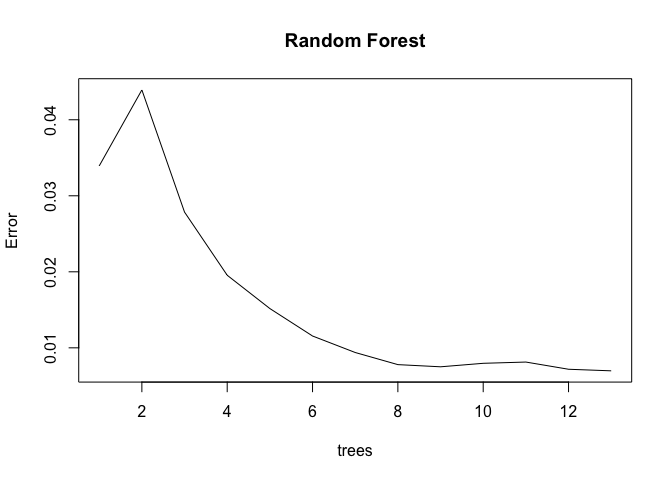
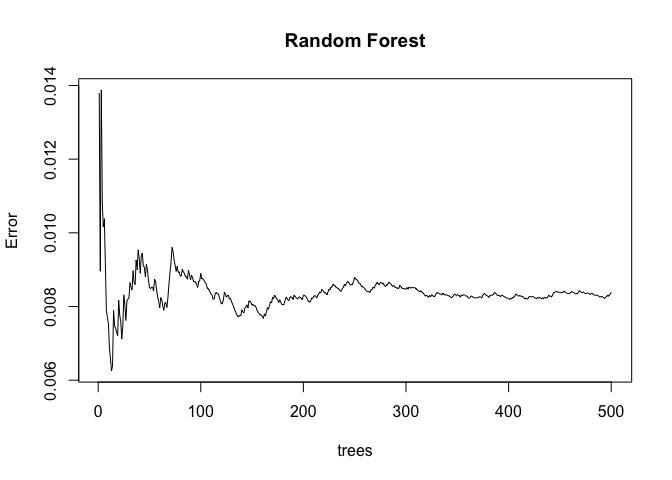
Updated markdown

diff --git a/CTR Optimisation (GSC)/CTR_optimisation.md b/CTR Optimisation (GSC)/CTR_optimisation.md
@@ -7,8 +7,8 @@ Marco Giordano
 
 This project is just an example of how it is possible to predict the CTR
 of a website by using Google Search Console data, extracted via Google
-API. The presented example can be considered as a “toy model”, in the
-sense that it is just a demonstration to show the method on a relatively
+API. What we present can be considered as a “toy example”, in the sense
+that it is just a demonstration to show two methods on a relatively
 small dataset. The main reason to predict CTR via Machine Learning
 techniques is because SEO Specialists usually decide what to optimize by
 looking at pages with high Impressions and low CTR. However, this method
@@ -17,6 +17,9 @@ is obviously biased, since CTR varies with position\!
 I try to test some popular methods to predict the CTR, given a small
 sample of 25K rows from 3 months from Google Search Console, in order to
 create a better way to make decisions on what could be optimized.
+
+\[Original source\]
+(<https://understandingdata.com/ctr-optimisation-with-machine-learning/>)
 
 ## Descriptive Statistics
 
@@ -43,7 +46,7 @@ summary(gsc_queries_all[,-c(1:3)])
 # Data Cleaning
 
 Even though data extracted from GSC API are in a tidy format, there are
-some fixes to do before we start with our analysis. For instance,
+some small fixes to do before we start with our analysis. For instance,
 details about the date, the query and the page are not requested to
 predict the CTR. Hence, we remove them and create a new data set without
 them.
@@ -164,7 +167,7 @@ doesn’t imply causation, we are just talking about linear association.
 Before we start training any model, we need to create a train/test split
 to avoid overfitting. We will use a 75/25 ratio, chosen arbitrarily and
 we should have enough data to train a model. To do this, we simply
-create a Uniform distribution which stores
+create a random variable to group and partition data.
 
 ``` r
 set.seed(55744747)
@@ -177,7 +180,8 @@ test_gsc <- gsc[gp >= 0.75,]
 After the train/test split, we can scale our two sets to adjust their
 scale and make algorithms life easier. We use a function from the caret
 package to process data from the training data set and then apply the
-same preprocessing to the test data set.
+same preprocessing to the test data set. Be careful, as you need to
+scale test data by what seen in train data\!
 
 ``` r
 preProcValues <- preProcess(train_gsc[-4], method = c("center", "scale"))
@@ -190,12 +194,13 @@ test_gsc[-4] <- predict(preProcValues, test_gsc[-4])
 
 We start with the most basic model to assess its accuracy. I suppose
 that this model won’t lead to good results because I suspect that the
-relationship is not linear at all\!
+relationship is not linear at all, although linear regression allows for
+interpolation. We can directly fit a model with all the covariates.
 
 ``` r
 lm_mod <- lm(ctr ~ ., data = train_gsc)
-train_gsc$pred <- predict(lm_mod, train_gsc)
-test_gsc$pred <- predict(lm_mod, test_gsc)
+train_Preds <- predict(lm_mod, train_gsc)
+Preds <- predict(lm_mod, test_gsc)
 ```
 
 ``` r
@@ -223,11 +228,15 @@ summary(lm_mod)
     ## Multiple R-squared:  0.06584,    Adjusted R-squared:  0.06569 
     ## F-statistic: 438.9 on 3 and 18680 DF,  p-value: < 2.2e-16
 
+By taking a quick look at the summary, we can clearly notice that
+converting variables to log or doing feature engineering would be a
+waste of time.
+
 We can visualize our results to assess how well the regression line fits
 the data points.
 
 ``` r
-ggplot(test_gsc, aes(pred, ctr)) +
+ggplot(test_gsc, aes(Preds, ctr)) +
   geom_point(alpha = 0.2, color = "darkgray") +
   geom_smooth(color = "darkblue") +
   geom_line(aes(ctr, ctr), color = "blue", linetype = 2) 
@@ -255,16 +264,30 @@ residuals and refers to the absolute fit of the model to the data. It
 tells us the accuracy with which our model predicts the response and it
 is very important for our goal, namely prediction.
 
-``` r
-R2_train <- 1 - (sum((train_gsc$ctr-train_gsc$pred)^2)/sum((train_gsc$ctr-mean(train_gsc$ctr))^2))
-R2_test <- 1 - (sum((test_gsc$ctr-test_gsc$pred)^2)/sum((test_gsc$ctr-mean(test_gsc$ctr))^2))
-
-RMSE_train <- sqrt(mean( (train_gsc$ctr - train_gsc$pred)^2 ))
-RMSE_test<- sqrt(mean( (test_gsc$ctr - test_gsc$pred)^2 ))
-```
-
 Both the two metrics for each of the 2 sets display totally unacceptable
 values, in line with what we saw before.
+
+``` r
+reg_rmse_train <- rmse(train_gsc$ctr, train_Preds, name = "prova")
+reg_rmse_test <- format(rmse(test_gsc$ctr, Preds), digits = 3)
+title <- "Linear Regression metrics"
+df_visual <- cbind(title, reg_rmse_test)
+```
+
+``` r
+library(pander)
+
+panderOptions("plain.ascii", TRUE)
+panderOptions("keep.trailing.zeros", TRUE)
+panderOptions("table.style", "simple")
+perf_justify <- "lrrr"
+
+perftable <- rbind(reg_rmse_train)
+perftable
+```
+
+    ##                     [,1]
+    ## reg_rmse_train 0.3166501
 
 ## Random Forest
 
@@ -275,11 +298,15 @@ repeatable by setting a seed value.
 
 ``` r
 set.seed(55744747)
-rand_gsc <- randomForest(ctr ~., data = train_gsc, importance = TRUE, ntree = 13)
+rand_gsc <- randomForest(ctr ~., data = train_gsc, importance = TRUE, ntree = 500)
 
 train_gsc$pred <- predict(rand_gsc, train_gsc)
 test_gsc$pred <- predict(rand_gsc, test_gsc)
 ```
+
+After we fit the model, it is important to create new columns for the
+predicted values in both the two sets. However, remind that we will only
+use values from the test data set later on\!
 
 ``` r
 summary(rand_gsc)
@@ -289,11 +316,11 @@ summary(rand_gsc)
     ## call                5  -none- call     
     ## type                1  -none- character
     ## predicted       18684  -none- numeric  
-    ## mse                13  -none- numeric  
-    ## rsq                13  -none- numeric  
+    ## mse               500  -none- numeric  
+    ## rsq               500  -none- numeric  
     ## oob.times       18684  -none- numeric  
-    ## importance          8  -none- numeric  
-    ## importanceSD        4  -none- numeric  
+    ## importance          6  -none- numeric  
+    ## importanceSD        3  -none- numeric  
     ## localImportance     0  -none- NULL     
     ## proximity           0  -none- NULL     
     ## ntree               1  -none- numeric  
@@ -310,17 +337,12 @@ plot(rand_gsc, main = "Random Forest")
 ```
 
 ![](CTR_optimisation_files/figure-gfm/Error%20vs%20Number%20of%20Trees%20-%20RF-1.png)<!-- -->
-
-After we fit the model, it is important to create new columns for the
-predicted values in both the two sets. However, remind that we will only
-use values from the test data set later on\!
-
-``` r
-varImp <- importance(rand_gsc)
-varImpPlot(rand_gsc, type = 1)
-```
-
-![](CTR_optimisation_files/figure-gfm/Variable%20importance%20-%20RF-1.png)<!-- -->
+As you can see above, After \~10 trees, error starts to increase and
+then flatten as we move towards 500. We could also optimize the number
+of trees used by setting a lower number but the model is already fine
+this way. Please consider to test different combinations if you need to
+get better results. In our case, we could just reduce the number of
+tress to increase the speed of our algorithm.
 
 You may want to take a look at the importance of the variables according
 to Random Forest. We used the percentage of increase in MSE when a given
@@ -330,6 +352,13 @@ either didn’t show any strong correlation with CTR at the beginning of
 our analysis. In cases where you have a lot of variables, you can
 consider using this screening procedure to pick the most important
 variables and work with a smaller feature set.
+
+``` r
+varImp <- importance(rand_gsc)
+varImpPlot(rand_gsc, type = 1, main = "Variable Importance")
+```
+
+![](CTR_optimisation_files/figure-gfm/Variable%20importance%20-%20RF-1.png)<!-- -->
 
 ``` r
 R2_train <- 1 - (sum((train_gsc$ctr-train_gsc$pred)^2)/sum((train_gsc$ctr-mean(train_gsc$ctr))^2))
@@ -353,7 +382,7 @@ mtry <- tuneRF(train_gsc[, -4],train_gsc$ctr, ntreeTry=500,
                stepFactor=1.5,improve=0.05, trace=TRUE, plot=TRUE)
 ```
 
-    ## mtry = 1  OOB error = 0.001231441 
+    ## mtry = 1  OOB error = 0.001592572 
     ## Searching left ...
     ## Searching right ...
 
@@ -404,8 +433,21 @@ final_df <- final_df %>%
   group_by(page) %>%
   arrange(desc(diff_perc)) %>%
   ungroup() %>%
-  select(-c(clicks.x, impressions.x, ctr.x, position.x))
+  select(-c(clicks.x, impressions.x, ctr.x, position.x)) %>%
+  relocate(diff_perc, .after = last_col())
 ```
+
+We will show how our final data set looks like by taking a peak at only
+the first row since these data are private.
+
+``` r
+head(final_df, 1)
+```
+
+    ## # A tibble: 1 x 5
+    ##   query                page                                 pred   ctr diff_perc
+    ##   <chr>                <chr>                               <dbl> <dbl>     <dbl>
+    ## 1 schemi halloween an… https://ilovevg.it/2020/09/animal-…  39.5  5.88      33.6
 
 Now, we are ready for some interpretation of the results. Our interest
 is the column of the percentage difference, necessary to understand what
@@ -427,3 +469,16 @@ to avoid comparing different data and most likely ranges.
 Future improvements may include expanding the original data set with
 other sources, such as Screaming Frog, Google Analytics or other SEO
 tools (ie. SEMRush or Hrefs).
+
+## What’s next and what to consider
+
+Random Forest cannot do extrapolation, since the average of samples
+cannot fall outside their ranges. For this reason, you should totally
+avoid applying this kind of model to new data that fall outside the
+range on which you trained. Linear Regression can extrapolate data but
+it performed really poorly and it is not a viable option.
+
+Nonetheless, there are some solutions to try next, for instance neural
+nets, SVM Regression or Regression-Enhanced Random Forests. The
+possibility to extrapolate data is something that may improve your CTR
+optimization process.
